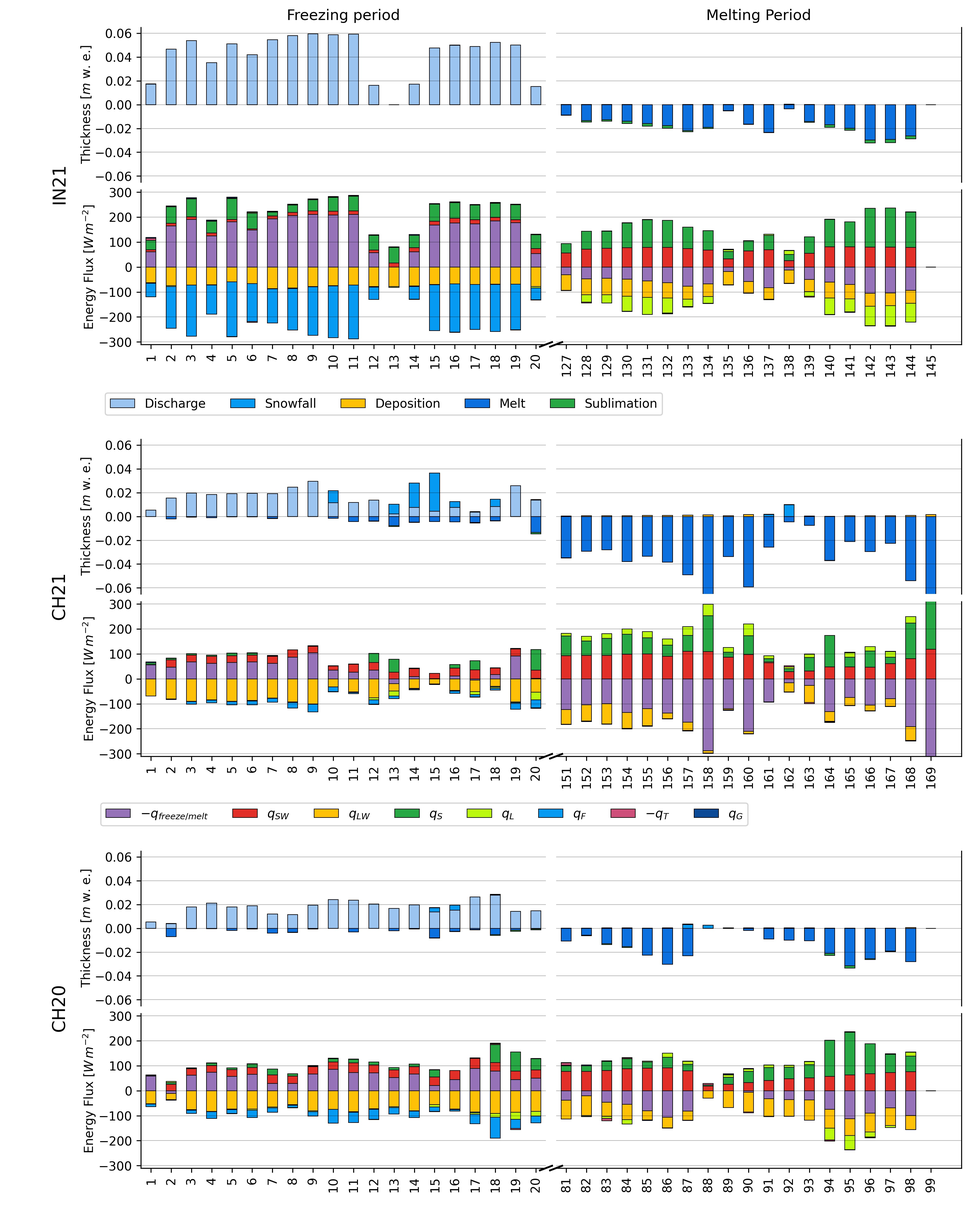
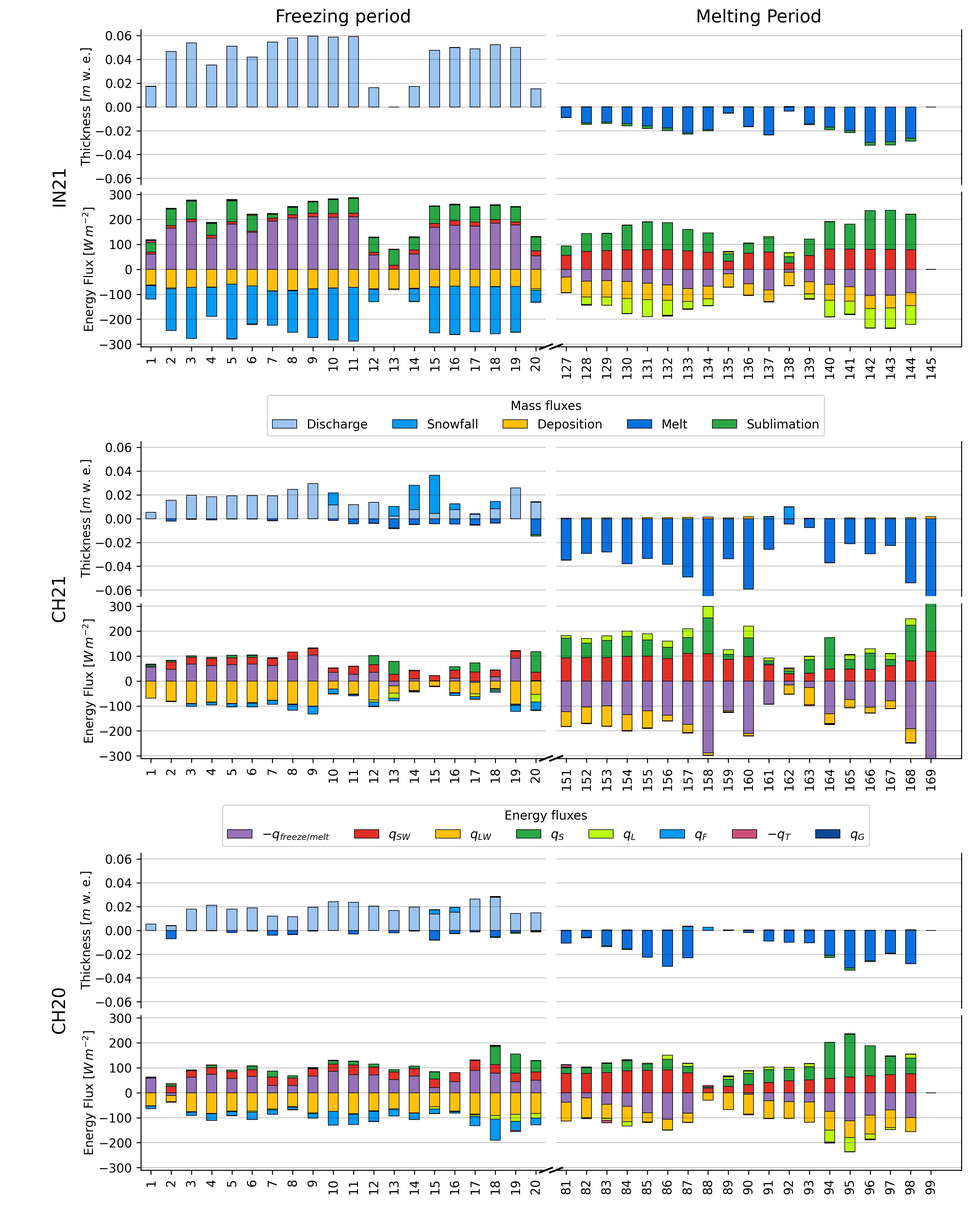
Mass and energy flux

diff --git a/air.tex b/air.tex
@@ -390,20 +390,15 @@ A possible source of error is the fact that wind and humidity measurements from 
 used, which might be different from those on a slope. However, without detailed datassetts from the AIR surface, we
 retain this assumption.
 
-\subsubsection{Fountain water heat flux \texorpdfstring{$q_{F}$}{Lg} }
-
-The interaction between the fountain water and the ice surface is taken into account by assuming that the ice surface
-temperature remains constant at 0 $\degree C$ during time steps when the fountain is active. This process can be divided
-into two simultaneous steps: (a) the water temperature $T_{water}$ is cooled to 0 $\degree C$ and (b) the ice surface
-temperature is warmed to 0 $\degree C$. Thus, the heat flux caused by the fountain water is calculated as follows:
+\subsubsection{Fountain discharge heat flux \texorpdfstring{$q_{F}$}{Lg} }
+The fountain water temperature $T_{water}$ is assumed to cool to 0 $\degree C$. Thus, the heat flux caused by this
+process is:
 
 \begin{equation} 
-  q_{F} = \left\{ \begin{array}{ll}
-         0 & \textit{ if } \Delta M_{F} = 0\\ \frac{ \Delta M_F \cdot c_{water} \cdot T_{water}}{\Delta t \cdot A} +
-         \frac{\rho_{ice} \cdot \Delta x \cdot c_{ice} \cdot T_{ice}}{\Delta t} & \textit{ if } \Delta M_{F} > 0 
-    \end{array} \right.  \label{eqn:qF}
+    q_{F} = \frac{ \Delta M_F \cdot c_{water} \cdot T_{water}}{\Delta t \cdot A}
+    \label{eqn:qF}
 \end{equation} 
-with $c_{ice}$ as the specific heat of ice. 
+with $c_{water}$ as the specific heat of water. 
 
 \subsubsection{Bulk Icestupa heat flux \texorpdfstring{$q_{G}$}{Lg}} \label{sec:Bulkflux}
 % TODO Reason choice of lice
@@ -442,13 +437,17 @@ condition namely $(q_{surf}-q_{L}) < 0$ is required. Thus, freezing and melting 
     \end{array} \right. 
 \end{equation} 
 
-During a freezing event, the available energy $(q_{surf}-q_{L})$ can either be sufficient or insufficient to freeze the
-fountain water available. If insufficient, the additional energy further cools down the surface temperature. So the
-surface energy flux distribution during a freezing event can be represented as:
+During a freezing event, the AIR surface is assumed to warm to $0 \degree C$. So the available energy $(q_{surf}-q_{L})$
+is further augmented due to this change in surface temperature represented by the energy flux  
+$q_{0} = \frac{\rho_{ice} \cdot \Delta x \cdot c_{ice} \cdot T_{ice}^{i-1}}{\Delta t}$
+
+During a freezing event, the available energy can either be sufficient or insufficient to freeze the fountain water
+available.  If insufficient, the additional energy further cools down the surface temperature. So the surface energy
+flux distribution during a freezing event can be represented as:
 
 \begin{equation} 
     (q_{freeze}, q_{T}) = \left\{ \begin{array}{ll}
-            (q_{surf}-q_{L}, q_{L}) & \textit{ if } \Delta M_{F} \geq -\frac{(q_{surf}-q_{L}) A \cdot \Delta
+            (q_{surf}-q_{L}+q_{0}, q_{L}-q_{0}) & \textit{ if } \Delta M_{F} \geq -\frac{(q_{surf}-q_{L}+q_{0}) \cdot A \cdot \Delta
         t}{L_f} \\
 (\frac{\Delta M_{F} \cdot L_f 
         }{A \cdot \Delta t}
@@ -524,7 +523,7 @@ equation \ref{eq:MB}.
 \end{align}
 \end{subequations}
 
-We define the first term in Eqn. \ref{eq:mice} as the fountain freezing rate $f_{ice}$ since it represents
+We define the first term in Eqn. \ref{eq:mice} as the fountain discharge freezing rate $d_{ice}$ since it represents
 the quantity of fountain water frozen.
 
 To estimate the mass of any component at time step $i$, one can now sum the mass flux estimated above:
@@ -536,44 +535,53 @@ where
 M_{F}\\ 0 & \textit{ otherwise }\\ \end{array} \right. \\
  \end{equation}
 
- Considering AIRs as water reservoirs, their storage efficiency ($SE$) at any time step $i$ can be defined as the
- percentage of ice and meltwater produced as follows:
+ Considering AIRs as water reservoirs, their storage efficiency ($SE$) can be defined as the percentage of ice and
+ meltwater produced as follows:
 
-\begin{equation} \textit{SE}^i = \frac{M_{water}^i+M_{ice}^i}{(M_F^i+M_{ppt}^i+M_{dep}^i)} \cdot 100 \end{equation}
+\begin{equation} \textit{SE} = \frac{M_{water}+M_{ice}}{(M_F+M_{ppt}+M_{dep})} \cdot 100 \end{equation}
 
-\subsection{Parameter sensitivity analysis}
+In the following analysis, $SE$ will be used to compare the three different AIR.
+
+\subsection{Sensitivity and uncertainty analysis}
 Model parameters that were not measured but can be constrained within a range of plausible values were calibrated using
 the ice volume measurements of each AIR. The RMSE of the model output against the ice volume measurements were
 determined for each parameter combination and the combination with the best fit was used to calculate the mass and
 energy balance fluxes at each AIR. 
 
-In total, 10000 model runs were performed consisting of combinations of the parameters that were varied with a range
-derived from literature values and a discrete step as shown in Table \ref{tab:parameters}. The initial value for ice
-albedo was chosen as 0.15 and the possible range limited to 0.01-0.35, corresponding to the measured value of ice cliffs
-from \cite{steiner_2015}. Emissivity value was set to 0.97 for ice and ranged from 0.95-0.99 (\cite{steiner_2015}). Snow
-albedo and albedo decay rate was set to 0.85 (\cite{CuffeyPaterson_2010}) and 10 days (\cite{Schmidt_2017}) respectively
-with an uncertainty assumed to be $\pm \,5 \%$. Temperature threshold for precipitation was set to $1 \degree C$
-(\cite{FujitaAgeta_2000}) and varied $\pm$ $1\,\degree C$ (\cite{Zhou_2010}).  Surface roughness was initially set to 1
-mm (\cite{pellicciotti_2005}) and varied between 1 and 5 mm (\cite{BrockWillisSharp_2006}). 
+A sensitivity study on the parameters was performed with the storage efficiency as the target variable. All the
+parameters were assumed to be independent of each other with a uniform distribution. This assumption ignores the auto-correlation present among
+the parameters associated with the albedo parameterisation.  The range of uncertain parameters were set based on
+available literature values or varied $\pm$ 5\% from the base value if no such reference was available. However, it must be kept in mind that, even though intended to be as objective
+as possible, the selection of a parameter range has a subjective part that influences the results and conclusions
+obtained in this analysis.  The variation of the model outputs is evaluated to quantify the local sensitivities
+that are defined here as the 95\% range of the simulated outputs.
 
-Sensitivity analysis was conducted using the calibration runs, which reflect a global sensitivity of the model to the
-parameters used in the optimization, since all parameters are changed at the same time.  The 100 best runs resulting in
-the lowest RMSE were selected and the parameters from these runs plotted for each AIR, to evaluate their spread.
-Parameters with a large spread are those that the model is not sensitive to, as any of those valus lead to a high model
-performance. On the contrary, parameters with a small spread(indicated by the confidence interval) are those the model
-is sensitive to. 
+The initial value for ice albedo was chosen as 0.15 and the possible range limited to 0.01-0.35, corresponding to the
+measured value of ice cliffs from \cite{steiner_2015}. Emissivity value was set to 0.97 for ice and ranged from
+0.95-0.99 (\cite{steiner_2015}). Snow albedo and albedo decay rate was set to 0.85 (\cite{CuffeyPaterson_2010}) and 10
+days (\cite{Schmidt_2017}) respectively with an uncertainty assumed to be $\pm \,5 \%$. Temperature threshold for
+precipitation was set to $1 \degree C$ (\cite{FujitaAgeta_2000}) and varied $\pm$ $1\,\degree C$ (\cite{Zhou_2010}).
+Surface roughness was initially set to 1.7 mm (\cite{CuffeyPaterson_2010}) and varied between 1 and 5 mm
+(\cite{BrockWillisSharp_2006}). 
 
-% To perform the uncertainty analysis on the ice volume estimation, a polynomial chaos expansion approach (as in
-% \cite{uncertainpy_2018}; \cite{Xiu_2005}) was used. Polynomial chaos expansion are a much more efficient way to obtain
-% similar results compared to the computationally demanding Monte Carlo methods. This approach approximates the model with
-% a polynomial (as a surrogate model), on which uncertainty and sensitivity analysis can be performed. All the parameters
-% of Table \ref{tab:parameters} were assumed to have a uniform distribution over their ranges to produce the confidence
-% interval of the ice volume estimation.
+% Sensitivity analysis was conducted using the calibration runs, which reflect a global sensitivity of the model to the
+% parameters used in the optimization, since all parameters are changed at the same time.  The 100 best runs resulting in
+% the lowest RMSE were selected and the parameters from these runs plotted for each AIR, to evaluate their spread.
+% Parameters with a large spread are those that the model is not sensitive to, as any of those valus lead to a high model
+% performance. On the contrary, parameters with a small spread(indicated by the confidence interval) are those the model
+% is sensitive to. 
+
+To perform the uncertainty analysis on the ice volume estimation, a polynomial chaos expansion approach (as in
+\cite{uncertainpy_2018}; \cite{Xiu_2005}) was used. Polynomial chaos expansion are a much more efficient way to obtain
+similar results compared to the computationally demanding Monte Carlo methods. This approach approximates the model with
+a polynomial (as a surrogate model), on which uncertainty and sensitivity analysis can be performed. 
 
 \section{Results} 
 \subsection{Parameter calibration}
-Table \ref{tab:parameters} shows the optimized parameters at all AIR. The results point to considerably higher albedo
-values for indian compared to swiss sites. This corresponds to visual observations, since swiss AIR 
+In total, 10000 model runs were performed consisting of combinations of the parameters that were varied with a range
+derived from literature values and a discrete step .  Table \ref{tab:parameters} shows the optimized parameters at all
+AIR. The results point to considerably higher albedo values for indian compared to swiss sites. This corresponds to
+visual observations, since swiss AIR 
 
 Ice volume calculate with the initial and optimized parameters is shown in Fig. for all AIR. In CH21, the optimized
 model parameters can reproduce ice volume observations accurately. The initial parameter sets overestimate ice volume at
@@ -587,13 +595,13 @@ CH21 but underestimate it on IN21 most likely because of different albedo values
 \toprule
 \textbf{Calibrated parameters} & \textbf{(Range, Step)} & \textbf{Initial} & \textbf{CH21} & \textbf{IN21} & \textbf{CH20} \\\midrule
 Ice Emissivity ($\epsilon_{ice}$)               & (0.95-0.99, 0.01)                    & 0.97        & 0.95  &  &  \\
-Ice Albedo ($\alpha_{ice}$)                     & (0.01-0.35, 0.05)                    & 0.15        & 0.24  &  &  \\
+Ice Albedo ($\alpha_{ice}$)                     & (0.01-0.35, 0.05)                    & 0.25        & 0.24  &  &  \\
 Snow Albedo ($\alpha_{snow})$                   & (0.80-0.90, 0.05)                    & 0.85        & 0.87  &  &  \\
 Precipitation Temperature threshold ($T_{ppt}$) & (0-2, 1) $\,\degree C$ & $1\degree C$& $1\degree C$ &  &  \\
-Albedo Decay Rate ($\tau$)                      & (9.5-10.5, 0.5) $days$                     & 10 days     & 10 days &  &  \\
-Surface Roughness ($z_0$)                       & (1-5, 1) $mm$                     & $1\,mm$     & $1\,mm$ &  &  \\ 
+Albedo Decay Rate ($\tau$)                      & (9.5-10.5, 0.5) $days$               & 10 days     & 10 days &  &  \\
+Surface Roughness ($z_0$)                       & (1-5, 1) $mm$                        & $1.7\,mm$     & $1\,mm$ &  &  \\ 
 Surface layer thickness ($\Delta x$)            & (19-21, 0.5) $mm$                    & $20\,mm$    & $20\,mm$ &  &  \\
-Water temperature ($T_{water}$)                 & (0-5, 1) $\,\degree C$              & $1\degree C$&$1\degree C$  &  &
+Water temperature ($T_{water}$)                 & (0-3, 0.5) $\,\degree C$              & $0.5\degree C$&$1\degree C$  &  &
 \\\bottomrule
 % \textbf{Fountain parameters} & &  & & &  \\\midrule
 %      Spray Radius ($r_F$)        &                                & meas.      &$6.9\,m$  &$10.8\,m$  &$7.7\,m$  \\ 
@@ -624,6 +632,18 @@ surface albedo $\alpha$ and the area fraction $f_{cone}$ which therefore represe
 Only one third and one fourth of the global radiation flux heated the AIR surface primarily because only 40 \% and 50 \%
 of the surface area was exposed to it as represented by the $f_{cone}$ factor.  
 
+\begin{figure}[h] 
+    \begin{center} 
+    \includegraphics[width=\linewidth]{Figures/albedo.jpg} 
+\end{center}
+\caption{Some derived parameters of the model, namely, albedo and $f_{cone}$ (a), Surface and bulk temperature (b). In
+    (a), the green curve shows how snow and fountain-on events reset albedo between ice albedo and snow albedo.  The
+    decay of the snow albedo to ice albedo can also be observed. The orange curve shows how the solar radiation area
+    fraction varied diurnally with variations in the solar elevation angle. In (b), the surface temperature (light blue
+    curve) was forced to be 0 $\degree C$ during fountain activity. The corresponding bulk temperature is shown with the
+    dark blue curve.} 
+  \label{fig:results} \end{figure}
+
 Turbulent fluxes vary significantly in magnitude and distribution between the two time periods and the two locations. In
 the freezing period, latent heat is insignificant as the vapor flux between the AIR surface and the atmosphere is
 minimal.  Sensible (Latent) heat drive the melting (freezing) of the Indian AIR compared to the Swiss AIR especially
@@ -636,10 +656,11 @@ process favoured by the high vapour fluxes generated between the melting AIR sur
 % diffuse component (Ref.).
 
 \begin{figure} \begin{center} \includegraphics[width=\linewidth]{Figures/mass_energy_bal.jpg} \end{center}
-\caption{(a) Mass and (b) energy fluxes of the IN21 and CH21 AIR in daily time steps.  $q_{SW}$ is the
-    net shortwave radiation; $q_{LW}$ is the net longwave radiation; $q_{L}$ and $q_{S}$ are the turbulent latent and
-    sensible heat fluxes. $q_{F}$ represents the interactions of the fountain water with the AIR surface layer.  $q_{G}$
-    quantifies the heat conduction process between the AIR surface layer and the ice body. } \label{fig:MEB} \end{figure}
+\caption{Daily averages of mass and energy fluxes compared for all AIR during their freezing and melting periods.
+    $q_{SW}$ is the net shortwave radiation; $q_{LW}$ is the net longwave radiation; $q_{L}$ and $q_{S}$ are the
+    turbulent latent and sensible heat fluxes. $q_{F}$ represents the interactions of the fountain water with the AIR
+    surface layer.  $q_{G}$ quantifies the heat conduction process between the AIR surface layer and the ice body. }
+\label{fig:MEB} \end{figure}
 
 \begin{table}
 \centering
@@ -648,14 +669,15 @@ process favoured by the high vapour fluxes generated between the melting AIR sur
 \begin{tabular}{@{}|llllll|@{}}
 \toprule
 \textbf{}              & \textbf{Name} & \textbf{Symbol}      & \textbf{IN21} & \textbf{CH21} & \textbf{CH20} \\ \midrule
-\multicolumn{1}{|l|}{\multirow{7}{*}{\rotatebox[origin=c]{90}{Observations}}} 
+\multicolumn{1}{|l|}{\multirow{8}{*}{\rotatebox[origin=c]{90}{Observations}}} 
                        % & Shortname                      & IN21 & CH21 & CH20 \\ 
                        & Altitude  && 4025 $m$ a.s.l.& 1047 $m$ a.s.l.& 1047 $m$ a.s.l.\\ 
 \multicolumn{1}{|l|}{} & Fountain Duration && 829 $hours$        & 2155 $hours$          & 1553 $hours$ \\ 
 \multicolumn{1}{|l|}{} & Drone Flights               && 6 $times$   & 9 $times$   & 3 $times$     \\
 \multicolumn{1}{|l|}{} & Spray radius                & $r_{F}$     & 10.8 $m$& 6.9 $m$ & 7.7 $m$  \\
 \multicolumn{1}{|l|}{} & Dome volume                  & $V_{dome}$  & 78.5 $m^{3}$& 13.2 $m^{3}$& 23.9 $m^{3}$ \\
-\multicolumn{1}{|l|}{} & Mean discharge               & $d_{F}$  & 60 $l/min$& 7.5 $l/min$& 7.5 $l/min$ \\ \midrule
+\multicolumn{1}{|l|}{} & Mean discharge               & $d_{F}$  & 60 $l/min$& 7.5 $l/min$& 7.5 $l/min$ \\ 
+\multicolumn{1}{|l|}{} & Icestupa duration &          & Jan 18-Jun 11 & Nov 22-May 18 & Jan 3-Apr 10 \\ \midrule
 \multicolumn{1}{|l|}{\multirow{3}{*}{\rotatebox[origin=c]{90}{Input}}}  
                        & Fountain discharge & $M_F$     & 2911 $tons$  & 971 $tons$ & 700 $tons$  \\
 \multicolumn{1}{|l|}{} & Snowfall           & $M_{ppt}$ &    0 $tons$  &  56 $tons$ &  22 $tons$  \\
@@ -668,29 +690,10 @@ process favoured by the high vapour fluxes generated between the melting AIR sur
 \multicolumn{1}{|l|}{\multirow{3}{*}{\rotatebox[origin=c]{90}{Results}}}  
                        & Storage Efficiency & SE              & 15 \%        & 22 \%      & 20 \%        \\
 \multicolumn{1}{|l|}{} & Root mean squared error & RMSE       & 84 $m^{3}$   & 10 $m^{3}$ & 21 $m^{3}$   \\
-\multicolumn{1}{|l|}{} & Mean fountain freezing rate      & $(f_{ice})_{mean}$          & 11 $l/min$  & 2 $l/min$ & 2 $l/min$ \\ \bottomrule
+\multicolumn{1}{|l|}{} & Mean fountain freezing rate      & $(d_{ice})_{mean}$& 11 $l/min$  & 2 $l/min$ & 2 $l/min$ \\\bottomrule
 \end{tabular}
 \end{table}
 
-
-% \begin{figure} \begin{center} \includegraphics[width=\linewidth]{Figures/Model_Output.jpg} \end{center}
-% \caption{(a) Energy and (b) mass flux components of the CH21 AIR in daily time steps.  $q_{SW}$ is the
-%     net shortwave radiation; $q_{LW}$ is the net longwave radiation; $q_{L}$ and $q_{S}$ are the turbulent latent and
-%     sensible heat fluxes. $q_{F}$ represents the interactions of the fountain water with the AIR surface layer.  $q_{G}$
-%     quantifies the heat conduction process between the AIR surface layer and the ice body. } \label{fig:EB} \end{figure}
-
-% \begin{figure} 
-%     \centering
-%     \includegraphics[width=15 cm]{Figures/albedo_temperature.jpg} 
-% \caption{Some derived parameters of the model, namely, albedo and $f_{cone}$ (a), Surface and bulk temperature (b). In
-%     (a), the green curve shows how snow and fountain-on events reset albedo between ice albedo and snow albedo.  The
-%     decay of the snow albedo to ice albedo can also be observed. The orange curve shows how the solar radiation area
-%     fraction varied diurnally with variations in the solar elevation angle. In (b), the surface temperature (light blue
-%     curve) was forced to be 0 $\degree C$ during fountain activity. The corresponding bulk temperature is shown with the
-%     dark blue curve.} 
-% \label{fig:derived} 
-% \end{figure}
-  
 
 % Daily averages of all the components of the energy balance are shown in Fig.  \ref{fig:EB} (b). On average during the
 % experiment duration, the total energy balance was almost zero. Net shortwave radiation (35 $Wm^{-2}$), sensible (41
@@ -729,8 +732,32 @@ process favoured by the high vapour fluxes generated between the melting AIR sur
 % deposition (0.5 \%) as shown in Table \ref{tab:MB}. Therefore, in the case of CH21 we used a water input of 1,034,328
 % $kg$, with a resultant storage efficiency of 19 \%.
 
-\subsection{Sensitivity Analysis}
-\begin{figure} 
+\subsection{Sensitivity and uncertainty analysis}
+
+Fountain water temperature was found to be the most sensitive parameter causing a standard deviation of $3\%$ in the
+storage efficiency in all the AIR. Since warmer fountain water provides more melting energy to the AIR surface during the fountain
+duration, this parameter influences the storage efficiency negatively.
+
+Surface roughness variance was significant for all the AIR but varied in magnitude between the Swiss and Indian
+locations. It caused a standard deviation of $2\%$ and $1\%$ in the storage efficiency for the Indian and Swiss AIR
+respectively.
+
+Ice emissivity variance was significant for all the AIR but varied in magnitude between the Swiss and Indian
+locations. The higher the ice emissivity the larger the maximum ice volume as the emitted longwave radiation increases
+with ice emissivity.  It caused a standard deviation of $0.6\%$ and $2\%$ in the storage efficiency for the Indian and
+Swiss AIR respectively.
+
+Ice albedo variance was significant for all the AIR but varied in magnitude between the Swiss and Indian locations.
+It caused a standard deviation of $0.3\%$ and $1\%$ in the storage efficiency for the Indian and Swiss AIR respectively.
+
+The rest of the uncertain parameters caused a variation of less than $1\%$ in the storage efficiency and were ignored
+for the uncertainty analysis. All the significant parameters of Table \ref{tab:parameters} were assumed to have a
+uniform distribution over their ranges to produce the confidence interval of the ice volume estimation shown in Fig.
+\ref{fig:results}.
+
+In total, the sensitivity analysis required 120 simulations, and the uncertainty analysis a total of 32 simulations.
+
+\begin{figure}[h] 
     \begin{center} 
     \includegraphics[width=10 cm]{Figures/sensitivities.jpg} 
 \end{center}
@@ -739,58 +766,16 @@ process favoured by the high vapour fluxes generated between the melting AIR sur
 \label{fig:sensitivity} 
 \end{figure}
 
-\section{Discussion} 
-\subsection{Storage efficiency}
-The storage efficiency of IN21, CH21 and CH20 AIR were $15\%$, $22\%$ and $20\%$ respectively. The low SE is a product
-of the high  fountain water losses ( $\frac{M_{runoff}}{M_{input}}> 75 \%$ ) in all the AIR. This indicates that just
-decreasing the mean fountain discharge could have significantly increased water storage efficiency. CH21, IN21 and CH20
-had a maximum fountain freezing rate of just 7 $l/min$, 18 $l/min$ and 6 $l/min$ respectively compared to the 7.5
-$l/min$, 60 $l/min$ and 7.5 $l/min$ of mean fountain discharge they were provided with.
 
-% \subsection{Important assumptions}\label{section:assumptions} In the sensitivity and uncertainty analysis presented
-% above, we did not account for several general assumptions and parametrisation choices that may cause model errors.
-% Some assumptions and their potential to cause errors are discussed below.
-% 
-% \begin{itemize}
-% 
-% \item  Turbulent Sensible and Latent Heat Fluxes: The method used to calculate the turbulent heat fluxes by
-%   \cite{Garratt_1992} assumes that the turbulent heat fluxes are acting over a uniform planar surface to determine the
-%   roughness length. Since our application is on a conical surface, the distance to the ice surface is not
-%   uniform and well defined. Hence, $z_{ice}$ has no real physical significance here.
-% 
-% \item Droplet flight time loss: Water losses during the flight time of fountain droplets were neglected making all the
-%   fountain spray available for freezing. For the CH21 experiment, inclusion of this parameter does not influence
-%   results since it is already accounted for in the runoff water discharge rate which was at least $3\, l\,min^{-1}$.
-% 
-% \item Nucleation of droplets: Corresponding to droplet flight time, ice/snow formation is also possible before surface
-%   contact if nucleation occurs during flight time. For the CH21 experiment, this process will further increase
-%   the freeze rate and hence the storage efficiency. This process is neglected for model simplicity.
-% \item Shape Effects: The suppression of heat exchange between the snow/ice surface and the air adjacent to the surface
-%   effectively slows down snow/ice ablation in spring and promotes the stagnation of the cold air within topographical
-%   depressions \citep{Fujita_2010}. The quantitative contribution of the atmospheric decoupling over melting snow/ice
-%   for the total mass and energy balance is ignored in the model.
-% 
-% \end{itemize}
+% \section{Discussion} 
+% \subsection{Storage efficiency}
+% The storage efficiency of IN21, CH21 and CH20 AIR were $15\%$, $22\%$ and $20\%$ respectively. The low SE is a product
+% of the high  fountain water losses ( $\frac{M_{runoff}}{M_{input}}> 75 \%$ ) in all the AIR. This indicates that just
+% decreasing the mean fountain discharge could have significantly increased water storage efficiency. CH21, IN21 and CH20
+% had a maximum fountain freezing rate of just 7 $l/min$, 18 $l/min$ and 6 $l/min$ respectively compared to the 7.5
+% $l/min$, 60 $l/min$ and 7.5 $l/min$ of mean fountain discharge they were provided with.
 
-\section{Conclusions} 
-In this paper, we have developed a model to assess AIR evolution using a dataset of field measurements in India and
-Switzerland. Use of this dataset in combination with novel algorithms for calculation of the surface area and energy
-fluxes allowed a very accurate representation of the complex growth dynamics typical of AIR. The model was calibrated by
-comparison with the ice volume observations logged via drone flights. We calculated the storage efficiency for each of
-the three AIR and used calculations of the energy fluxes to explain the observed variability in freezing rates. We also
-looked at the model sensitivity to model parameters. Our main conclusions are summarised below.
-
-Observed freezing rates between the Swiss and the Indian AIR exhibited large variability.
-
-The model includes a new, accurate representation of the fountain energy flux. In this form, it was able to reproduce the
-ice volume observations well in all the three sites. 
-
-Modelled ice volumes in all the sites are slightly higher than the observations. While solar radiation is markedly lower
-due to the shape factor.
-
-The influence of the fountain was quantified. 
-
-\begin{figure} 
+\begin{figure}[h] 
     \begin{center} 
     \includegraphics[width=\linewidth]{Figures/icev_results.jpg} 
 \end{center}
@@ -799,23 +784,29 @@ The influence of the fountain was quantified.
 \label{fig:results} 
 \end{figure}
 
+\section{Conclusions} 
+In this paper, we have developed a model to assess AIR evolution using a dataset of field measurements in Indian
+Himalayas and the Swiss Alps. Use of this dataset in combination with novel algorithms for calculation of the surface
+area and fountain discharge energy flux allowed an accurate representation of the complex growth dynamics typical of any AIR. The model
+was calibrated by comparison with the ice volume observations logged via drone flights. We calculated the storage
+efficiency for each of the three AIR and used calculations of the energy fluxes to explain the observed variability in
+freezing and melting rates. We also looked at the model sensitivity to model parameters. Our main conclusions are
+summarised below.
+
+Freezing rates were driven by the energy flux due to AIR surface temperature changes while fountain was on. 
+
+Freezing period and melting period exhibited large variability in fluxes.
+
+Observed freezing rates between the Swiss and the Indian AIR exhibited large variability.
+
+Observed melting rates for the Indian AIR was significantly lower than the Swiss AIR.
+
+Modelled ice volumes in all the sites are slightly higher than the observations. While solar radiation is markedly lower
+due to the shape factor.
+
 The model results support the hypothesis that there could be considerable water loss during the formation of AIR
 particularly due to excessive fountain spray. Further experiments at different locations with different fountains are
-required to better understand the influence of construction decisions on the results. 
-
-% \begin{table}
-% \centering
-% \caption{AIR Results}
-% \label{tab:results}
-% \begin{tabular}{@{}|l|l|l|l|l|@{}}
-% \toprule
-% \textbf{AIR}   & \textbf{IN21} & \textbf{CH21} & \textbf{CH20} \\ \midrule
-% Max Ice Volume [$m^3$] & 703             & 156             & 107             \\ \midrule
-% Storage Efficiency [$\%$] & 18             & 19             & 14             \\ \midrule
-% Validation RMSE [$m^3$] & 59             & 13             & 25               \\ \bottomrule
-% \end{tabular}
-% \end{table}
-
+required to better understand the influence of the fountain discharge rate on the results. 
 
 % \section{Appendix}
 
